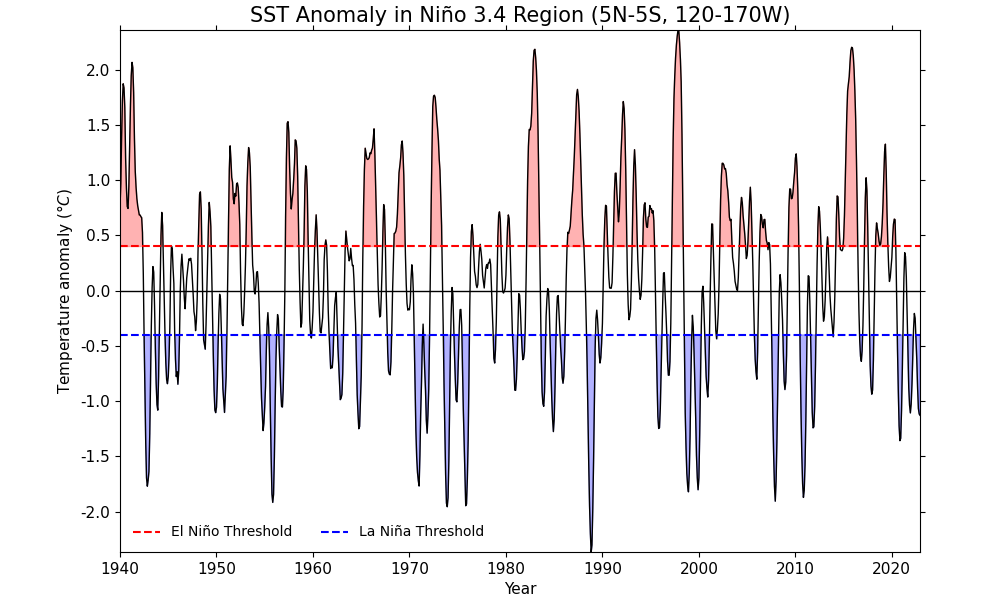
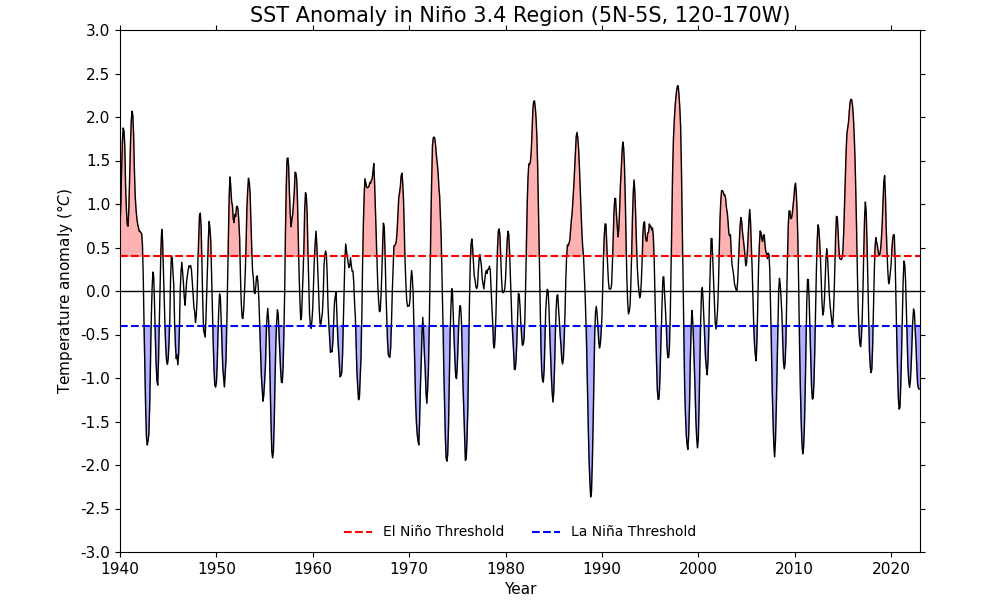
Update files

diff --git a/docs/recipes/plot_13_recipe.html b/docs/recipes/plot_13_recipe.html
@@ -26,7 +26,7 @@
     <script async="async" src="https://cdnjs.cloudflare.com/ajax/libs/mathjax/2.7.5/latest.js?config=TeX-AMS-MML_HTMLorMML"></script>
     <link rel="index" title="Index" href="../genindex.html" />
     <link rel="search" title="Search" href="../search.html" />
-    <link rel="next" title="Tutorial" href="../tutorial.html" />
+    <link rel="next" title="Overlay Geopotential height contours over Temperature anomalies" href="plot_14_recipe.html" />
     <link rel="prev" title="Using mask to plot Aerosol Optical Depth" href="plot_12_recipe.html" />
    
   <link rel="stylesheet" href="../_static/custom.css" type="text/css" />
@@ -92,7 +92,7 @@
   <li><a href="../index.html">Documentation overview</a><ul>
   <li><a href="index.html"><strong>Recipes using cf</strong></a><ul>
       <li>Previous: <a href="plot_12_recipe.html" title="previous chapter">Using mask to plot Aerosol Optical Depth</a></li>
-      <li>Next: <a href="../tutorial.html" title="next chapter"><strong>Tutorial</strong></a></li>
+      <li>Next: <a href="plot_14_recipe.html" title="next chapter">Overlay Geopotential height contours over Temperature anomalies</a></li>
   </ul></li>
   </ul></li>
 </ul>
@@ -347,6 +347,9 @@ short-term fluctuations and highlights longer-term trends or cycles:</p>
 El Niño and La Niña events. Now plot SST anomalies in the Niño 3.4 region over
 time using cf-plot. Here:</p>
 <ul class="simple">
+<li><p><a class="reference external" href="http://ajheaps.github.io/cf-plot/gset.html">cfplot.gset</a> sets the limits
+of the x-axis (years from 1940 to 2022) and y-axis (anomalies from -3
+degrees C to 3 degrees C) for the plot;</p></li>
 <li><p><a class="reference external" href="http://ajheaps.github.io/cf-plot/gopen.html">cfplot.gopen</a> is used to
 define the parts of the plot area, which is closed by
 <a class="reference external" href="http://ajheaps.github.io/cf-plot/gclose.html">cfplot.gclose</a>;</p></li>
@@ -366,6 +369,8 @@ is used to add a legend in the end:</p></li>
 </ul>
 <div class="highlight-python notranslate"><div class="highlight"><pre><span></span><a href="../class/cf.Field.html#cf.Field" title="cf.Field" class="sphx-glr-backref-module-cf sphx-glr-backref-type-py-class sphx-glr-backref-instance"><span class="n">elnino</span></a> <span class="o">=</span> <a href="../class/cf.Field.html#cf.Field" title="cf.Field" class="sphx-glr-backref-module-cf sphx-glr-backref-type-py-class sphx-glr-backref-instance"><span class="n">nino34_rolling</span></a> <span class="o">&gt;=</span> <span class="mf">0.4</span>
 <a href="../class/cf.Field.html#cf.Field" title="cf.Field" class="sphx-glr-backref-module-cf sphx-glr-backref-type-py-class sphx-glr-backref-instance"><span class="n">lanina</span></a> <span class="o">=</span> <a href="../class/cf.Field.html#cf.Field" title="cf.Field" class="sphx-glr-backref-module-cf sphx-glr-backref-type-py-class sphx-glr-backref-instance"><span class="n">nino34_rolling</span></a> <span class="o">&lt;=</span> <span class="o">-</span><span class="mf">0.4</span>
+
+<a href="https://ajheaps.github.io/cf-plot/gset.html#cfplot.gset" title="cfplot.gset" class="sphx-glr-backref-module-cfplot sphx-glr-backref-type-py-function"><span class="n">cfp</span><span class="o">.</span><span class="n">gset</span></a><span class="p">(</span><span class="n">xmin</span><span class="o">=</span><span class="s1">&#39;1940-1-1&#39;</span><span class="p">,</span> <span class="n">xmax</span><span class="o">=</span><span class="s1">&#39;2022-12-31&#39;</span><span class="p">,</span> <span class="n">ymin</span><span class="o">=-</span><span class="mi">3</span><span class="p">,</span> <span class="n">ymax</span><span class="o">=</span><span class="mi">3</span><span class="p">)</span>
 
 <a href="https://ajheaps.github.io/cf-plot/gopen.html#cfplot.gopen" title="cfplot.gopen" class="sphx-glr-backref-module-cfplot sphx-glr-backref-type-py-function"><span class="n">cfp</span><span class="o">.</span><span class="n">gopen</span></a><span class="p">(</span><span class="n">figsize</span><span class="o">=</span><span class="p">(</span><span class="mi">10</span><span class="p">,</span> <span class="mi">6</span><span class="p">))</span>
 <a href="https://ajheaps.github.io/cf-plot/lineplot.html#cfplot.lineplot" title="cfplot.lineplot" class="sphx-glr-backref-module-cfplot sphx-glr-backref-type-py-function"><span class="n">cfp</span><span class="o">.</span><span class="n">lineplot</span></a><span class="p">(</span>
@@ -398,17 +403,17 @@ is used to add a legend in the end:</p></li>
     <span class="n">color</span><span class="o">=</span><span class="s2">&quot;blue&quot;</span><span class="p">,</span>
     <span class="n">alpha</span><span class="o">=</span><span class="mf">0.3</span><span class="p">,</span>
 <span class="p">)</span>
-<span class="n">cfp</span><span class="o">.</span><span class="n">plotvars</span><span class="o">.</span><span class="n">plot</span><span class="o">.</span><span class="n">legend</span><span class="p">(</span><span class="n">frameon</span><span class="o">=</span><span class="kc">False</span><span class="p">,</span> <span class="n">loc</span><span class="o">=</span><span class="s2">&quot;lower left&quot;</span><span class="p">,</span> <span class="n">ncol</span><span class="o">=</span><span class="mi">2</span><span class="p">)</span>
+<span class="n">cfp</span><span class="o">.</span><span class="n">plotvars</span><span class="o">.</span><span class="n">plot</span><span class="o">.</span><span class="n">legend</span><span class="p">(</span><span class="n">frameon</span><span class="o">=</span><span class="kc">False</span><span class="p">,</span> <span class="n">loc</span><span class="o">=</span><span class="s2">&quot;lower center&quot;</span><span class="p">,</span> <span class="n">ncol</span><span class="o">=</span><span class="mi">2</span><span class="p">)</span>
 <a href="https://ajheaps.github.io/cf-plot/gclose.html#cfplot.gclose" title="cfplot.gclose" class="sphx-glr-backref-module-cfplot sphx-glr-backref-type-py-function"><span class="n">cfp</span><span class="o">.</span><span class="n">gclose</span></a><span class="p">()</span>
 </pre></div>
 </div>
-<img src="../_images/sphx_glr_plot_13_recipe_002.png" srcset="../_images/sphx_glr_plot_13_recipe_002.png" alt="SST Anomaly in Niño 3.4 Region (5N-5S, 120-170W)" class = "sphx-glr-single-img"/><p class="sphx-glr-timing"><strong>Total running time of the script:</strong> ( 0 minutes  51.295 seconds)</p>
+<img src="../_images/sphx_glr_plot_13_recipe_002.png" srcset="../_images/sphx_glr_plot_13_recipe_002.png" alt="SST Anomaly in Niño 3.4 Region (5N-5S, 120-170W)" class = "sphx-glr-single-img"/><p class="sphx-glr-timing"><strong>Total running time of the script:</strong> ( 1 minutes  53.230 seconds)</p>
 <div class="sphx-glr-footer sphx-glr-footer-example docutils container" id="sphx-glr-download-recipes-plot-13-recipe-py">
 <div class="sphx-glr-download sphx-glr-download-python docutils container">
-<p><a class="reference download internal" download="" href="../_downloads/2214352343dbffba02cc121f500f91d9/plot_13_recipe.py"><code class="xref download docutils literal notranslate"><span class="pre">Download</span> <span class="pre">Python</span> <span class="pre">source</span> <span class="pre">code:</span> <span class="pre">plot_13_recipe.py</span></code></a></p>
+<p><a class="reference download internal" download="" href="../_downloads/plot_13_recipe.py"><code class="xref download docutils literal notranslate"><span class="pre">Download</span> <span class="pre">Python</span> <span class="pre">source</span> <span class="pre">code:</span> <span class="pre">plot_13_recipe.py</span></code></a></p>
 </div>
 <div class="sphx-glr-download sphx-glr-download-jupyter docutils container">
-<p><a class="reference download internal" download="" href="../_downloads/40732b021a08aef42d07745362b9dae7/plot_13_recipe.ipynb"><code class="xref download docutils literal notranslate"><span class="pre">Download</span> <span class="pre">Jupyter</span> <span class="pre">notebook:</span> <span class="pre">plot_13_recipe.ipynb</span></code></a></p>
+<p><a class="reference download internal" download="" href="../_downloads/plot_13_recipe.ipynb"><code class="xref download docutils literal notranslate"><span class="pre">Download</span> <span class="pre">Jupyter</span> <span class="pre">notebook:</span> <span class="pre">plot_13_recipe.ipynb</span></code></a></p>
 </div>
 </div>
 <p class="sphx-glr-signature"><a class="reference external" href="https://sphinx-gallery.github.io">Gallery generated by Sphinx-Gallery</a></p>
@@ -422,7 +427,7 @@ is used to add a legend in the end:</p></li>
     <div class="clearer"></div>
   </div>
     <div class="footer">
-      &copy;2023, NCAS | Page built on 2023-08-03.
+      &copy;2023, NCAS | Page built on 2023-08-11.
       
       |
       Powered by <a href="http://sphinx-doc.org/">Sphinx 2.4.5</a>

diff --git a/docs/_downloads/plot_13_recipe.py b/docs/_downloads/plot_13_recipe.py
@@ -1,6 +1,6 @@
 """
 Calculate and plot the Niño 3.4 Index
-====================================
+=====================================
 
 In this recipe, we will calculate and plot the sea surface temperature (SST)
 anomaly in the Niño 3.4 region. According to `NCAR Climate Data Guide
@@ -206,6 +206,9 @@ nino34_rolling = nino34_anomaly.moving_window(
 # El Niño and La Niña events. Now plot SST anomalies in the Niño 3.4 region over
 # time using cf-plot. Here:
 #
+# - `cfplot.gset <http://ajheaps.github.io/cf-plot/gset.html>`_ sets the limits
+#   of the x-axis (years from 1940 to 2022) and y-axis (anomalies from -3
+#   degrees C to 3 degrees C) for the plot;
 # - `cfplot.gopen <http://ajheaps.github.io/cf-plot/gopen.html>`_ is used to
 #   define the parts of the plot area, which is closed by
 #   `cfplot.gclose <http://ajheaps.github.io/cf-plot/gclose.html>`_;
@@ -224,6 +227,8 @@ nino34_rolling = nino34_anomaly.moving_window(
 #   is used to add a legend in the end:
 elnino = nino34_rolling >= 0.4
 lanina = nino34_rolling <= -0.4
+
+cfp.gset(xmin='1940-1-1', xmax='2022-12-31', ymin=-3, ymax=3)
 
 cfp.gopen(figsize=(10, 6))
 cfp.lineplot(
@@ -256,5 +261,5 @@ cfp.plotvars.plot.fill_between(
     color="blue",
     alpha=0.3,
 )
-cfp.plotvars.plot.legend(frameon=False, loc="lower left", ncol=2)
+cfp.plotvars.plot.legend(frameon=False, loc="lower center", ncol=2)
 cfp.gclose()

diff --git a/docs/source/recipes/plot_13_recipe.py b/docs/source/recipes/plot_13_recipe.py
@@ -1,6 +1,6 @@
 """
 Calculate and plot the Niño 3.4 Index
-====================================
+=====================================
 
 In this recipe, we will calculate and plot the sea surface temperature (SST)
 anomaly in the Niño 3.4 region. According to `NCAR Climate Data Guide
@@ -206,6 +206,9 @@ nino34_rolling = nino34_anomaly.moving_window(
 # El Niño and La Niña events. Now plot SST anomalies in the Niño 3.4 region over
 # time using cf-plot. Here:
 #
+# - `cfplot.gset <http://ajheaps.github.io/cf-plot/gset.html>`_ sets the limits
+#   of the x-axis (years from 1940 to 2022) and y-axis (anomalies from -3
+#   degrees C to 3 degrees C) for the plot;
 # - `cfplot.gopen <http://ajheaps.github.io/cf-plot/gopen.html>`_ is used to
 #   define the parts of the plot area, which is closed by
 #   `cfplot.gclose <http://ajheaps.github.io/cf-plot/gclose.html>`_;
@@ -224,6 +227,8 @@ nino34_rolling = nino34_anomaly.moving_window(
 #   is used to add a legend in the end:
 elnino = nino34_rolling >= 0.4
 lanina = nino34_rolling <= -0.4
+
+cfp.gset(xmin='1940-1-1', xmax='2022-12-31', ymin=-3, ymax=3)
 
 cfp.gopen(figsize=(10, 6))
 cfp.lineplot(
@@ -256,5 +261,5 @@ cfp.plotvars.plot.fill_between(
     color="blue",
     alpha=0.3,
 )
-cfp.plotvars.plot.legend(frameon=False, loc="lower left", ncol=2)
+cfp.plotvars.plot.legend(frameon=False, loc="lower center", ncol=2)
 cfp.gclose()
